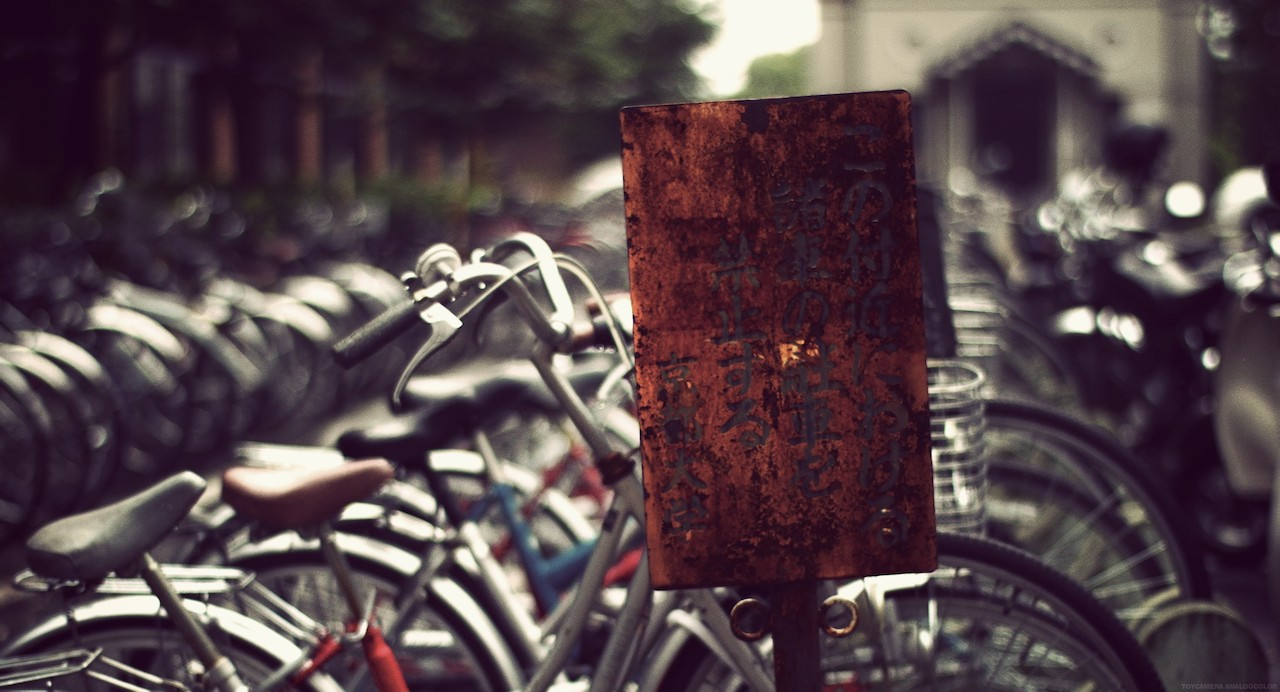
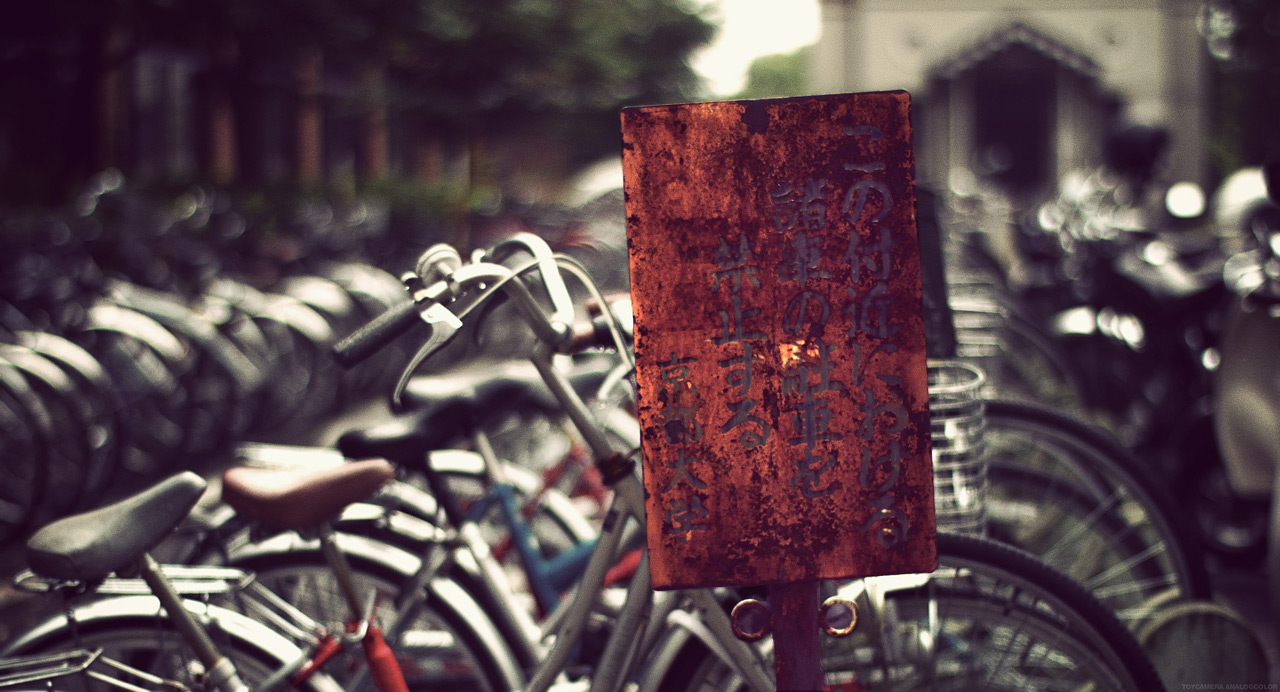
Replace cover image with rusty sign

diff --git a/index.md b/index.md
@@ -5,7 +5,7 @@ title:
 description: Hi. I'm Jordan Suchow, a cognitive scientist studying minds, brains, and machines.
 tags: [suchow, portfolio, reseach, cognitive science]
 image:
-  feature: sign.jpg
+  feature: rusty-sign.jpg
 ---
 
 My research applies a diverse set of tools from cognitive science, machine learning, network science, and evolutionary biology to better understand the dynamics of human cognition &mdash; how we learn to detect and recognize objects, how we maintain memories of sights and sounds, and how our thoughts and ideas evolve as they are transmitted from one person to the next.
